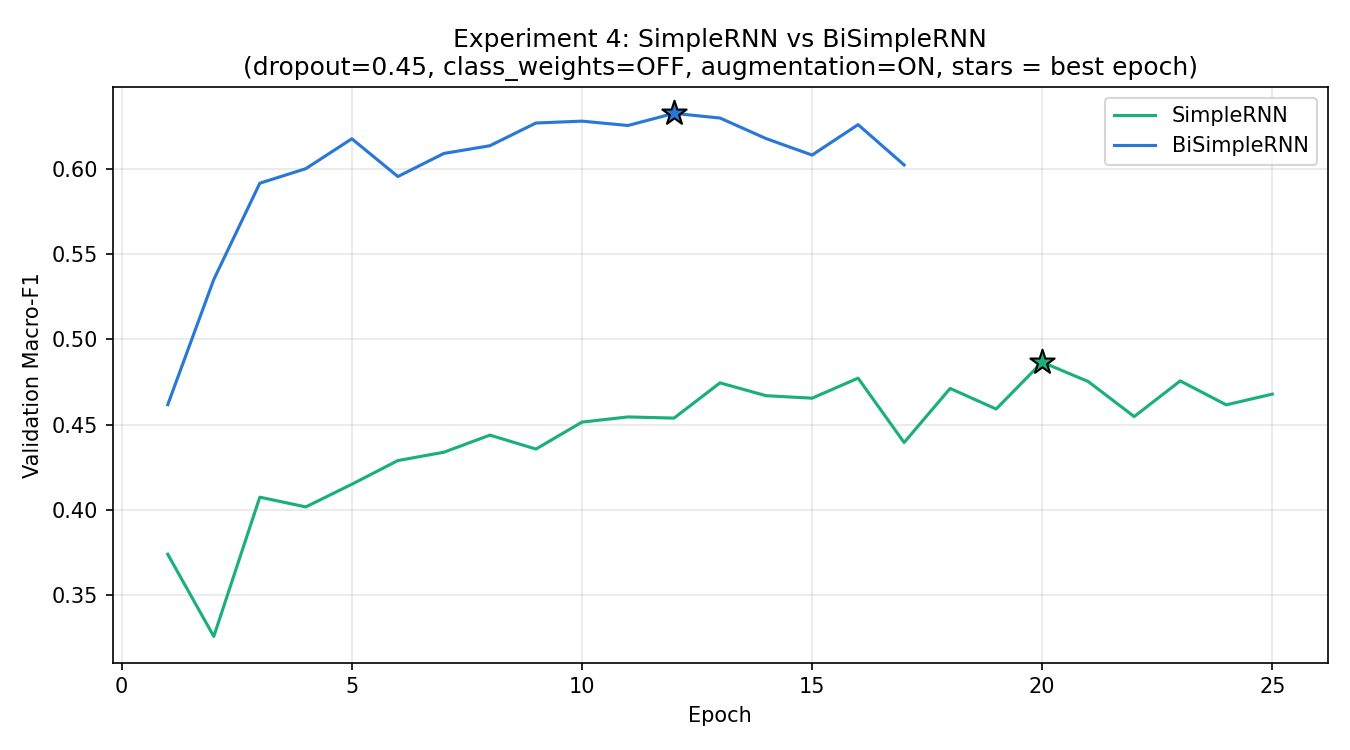
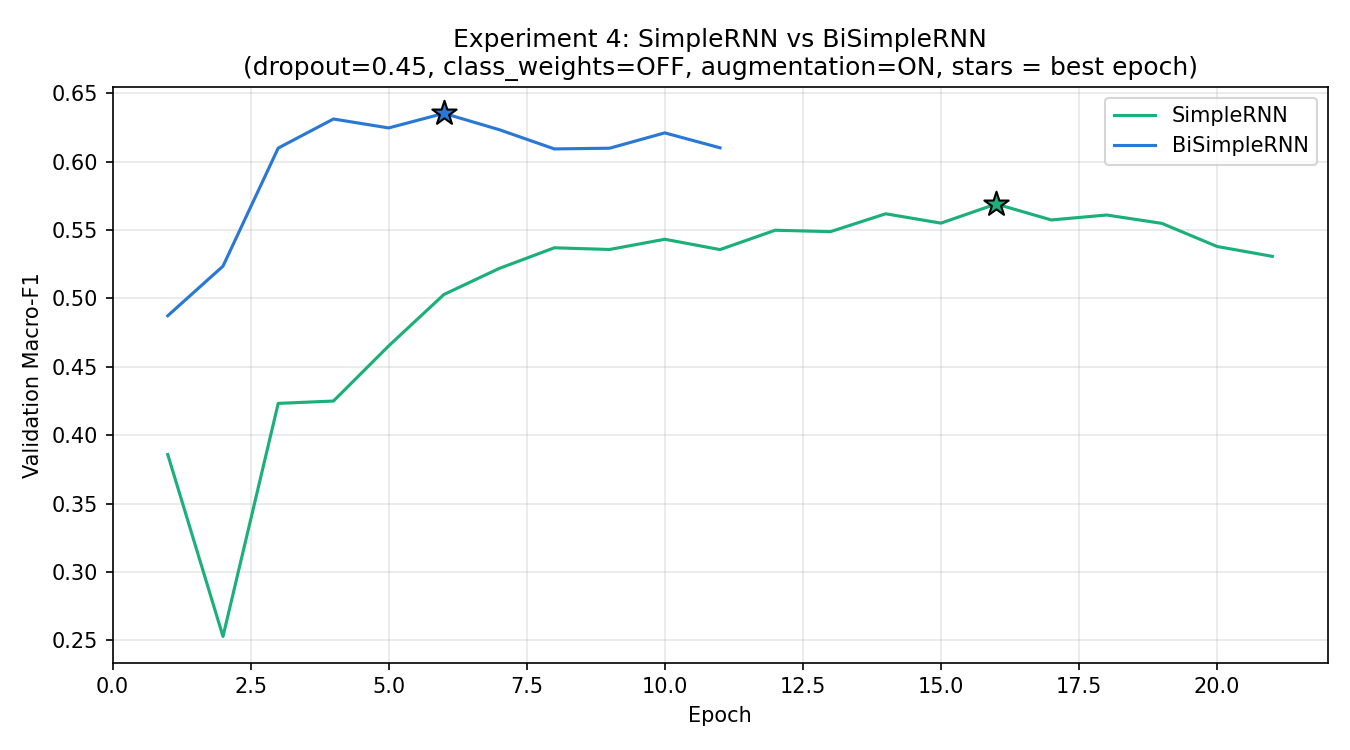
Add analysis - 7

diff --git a/analysis/README.md b/analysis/README.md
@@ -146,3 +146,72 @@ SimpleRNN vs BiSimpleRNN
 <a href="four_experiments_gru_twitter.py">four_experiments_gru_twitter.py</a>
 
 # Analysis for Data (Kaggle)
+
+### Model: BiSimpleRNN
+
+### Calculate the methods to choose the best Hyperparameters
+
+<b>MENTION — Best BiSimpleRNN Hyperparameters Found</b>
+
+
+Best Learning Rate [0.0005, 0.001, 0.002, 0.005]: 0.0005
+
+Best Vocab Size [6000, 10000, 15000]: 6000
+
+Best Embedding Dimension [32, 64, 128]: 64
+
+Best RNN Units [32, 64, 128]: 32
+
+Final combined BiSimpleRNN -> Accuracy: 68.23%  Macro-F1: 0.6335
+
+Dataset label distribution
+
+Train class counts -> Negative: 513 (12.5%) | Neutral: 2447 (59.4%) | Positive: 1159 (28.1%)
+Test class counts -> Negative: 91 (12.5%) | Neutral: 432 (59.4%) | Positive: 204 (28.1%)
+
+
+<a href="bisimplernn_hyperparameter_kaggle.py">bisimplernn_hyperparameter_kaggle.py</a>
+
+
+
+SimpleRNN       best_macro_f1=0.5691  best_epoch=16
+
+BiSimpleRNN     best_macro_f1=0.6353  best_epoch=6
+
+<b>FINAL OVERALL SUMMARY</b>
+
+Best dropout setting (Exp 1): dropout=0.45
+
+Best class-weight setting:    OFF
+
+Best augmentation setting:    ON
+
+SimpleRNN best macro-F1:     0.5691 (epoch 16)
+
+BiSimpleRNN best macro-F1:   0.6353 (epoch 6)
+
+
+
+<b>SimpleRNN (dropout, class weight, Augmentation, Bi-directional</b>
+
+Dropout:
+
+<img src="img/dropout_comparison_simplernn_kaggle.png">
+
+Class weight:
+
+<img src="img/class_weight_comparison_simplernn_kaggle.png">
+
+Augmentation (depending on NLP)
+
+<img src="img/augmentation_comparison_simplernn_kaggle.png">
+
+SimpleRNN vs BiSimpleRNN
+
+<img src="img/simplernn_vs_bisimplernn_comparison_simplernn_kaggle.png">
+
+<a href="four_experiments_simplernn_twitter.py">four_experiments_simplernn_kaggle.py</a>
+
+
+
+### Model: GRU